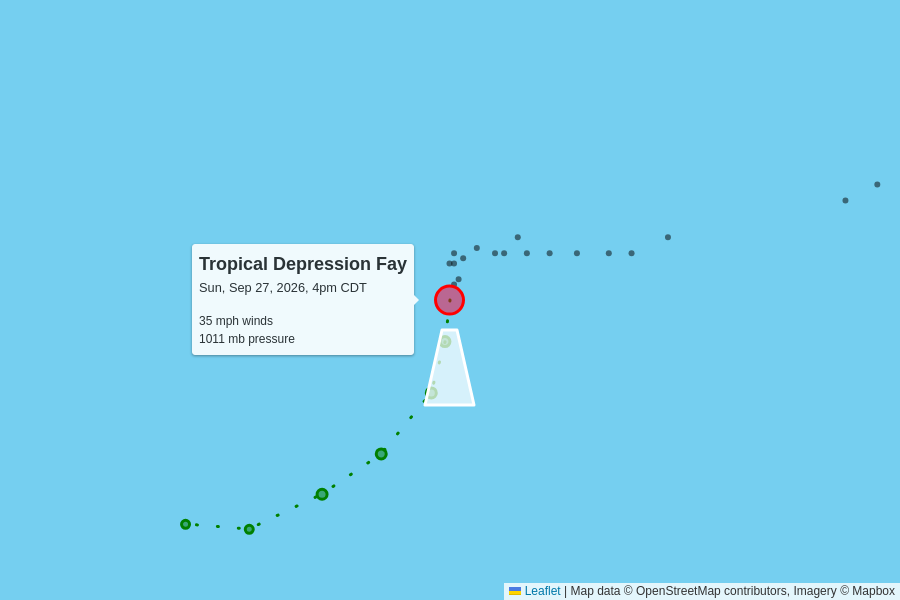
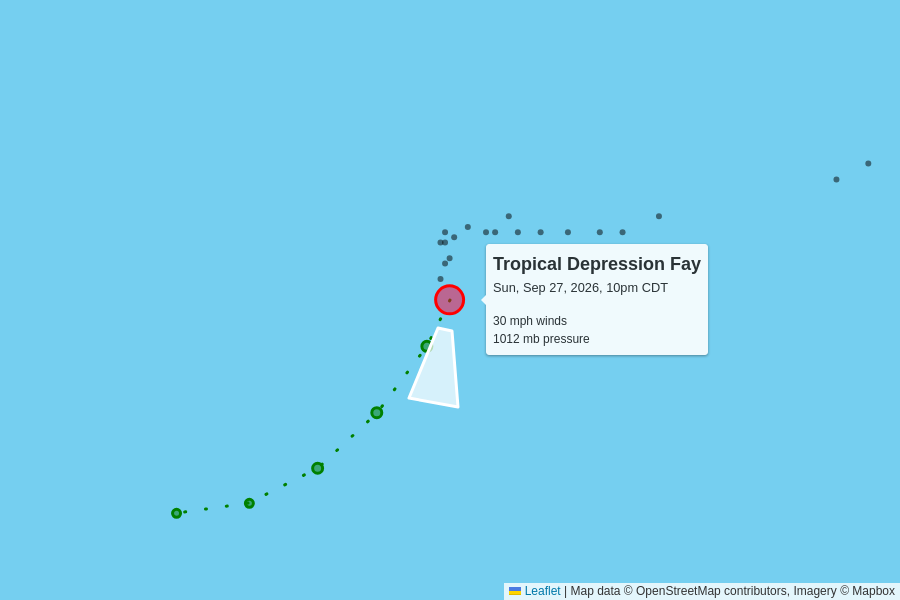
automatic update

diff --git a/docs/2026.html b/docs/2026.html
@@ -45,13 +45,13 @@
       <grid-container>
           <grid-row>
             <script type="text/json" id="storm_data_AL062026">
-              {"pressure":[{"timestamp":"2026-09-19T15:00:00.000Z","value":1009},{"timestamp":"2026-09-19T21:00:00.000Z","value":1007},{"timestamp":"2026-09-20T03:00:00.000Z","value":1007},{"timestamp":"2026-09-20T09:00:00.000Z","value":1004},{"timestamp":"2026-09-20T15:00:00.000Z","value":1004},{"timestamp":"2026-09-20T21:00:00.000Z","value":999},{"timestamp":"2026-09-21T03:00:00.000Z","value":995},{"timestamp":"2026-09-21T09:00:00.000Z","value":997},{"timestamp":"2026-09-21T15:00:00.000Z","value":1000},{"timestamp":"2026-09-21T21:00:00.000Z","value":1004},{"timestamp":"2026-09-22T03:00:00.000Z","value":1008},{"timestamp":"2026-09-22T09:00:00.000Z","value":1009},{"timestamp":"2026-09-22T15:00:00.000Z","value":1010},{"timestamp":"2026-09-22T21:00:00.000Z","value":1011},{"timestamp":"2026-09-23T21:00:00.000Z","value":1011},{"timestamp":"2026-09-24T03:00:00.000Z","value":1010},{"timestamp":"2026-09-24T09:00:00.000Z","value":1010},{"timestamp":"2026-09-24T15:00:00.000Z","value":1005},{"timestamp":"2026-09-24T21:00:00.000Z","value":1005},{"timestamp":"2026-09-25T03:00:00.000Z","value":1005},{"timestamp":"2026-09-25T09:00:00.000Z","value":1004},{"timestamp":"2026-09-25T15:00:00.000Z","value":1002},{"timestamp":"2026-09-25T21:00:00.000Z","value":1004},{"timestamp":"2026-09-26T03:00:00.000Z","value":1006},{"timestamp":"2026-09-26T09:00:00.000Z","value":1009},{"timestamp":"2026-09-26T15:00:00.000Z","value":1009},{"timestamp":"2026-09-26T21:00:00.000Z","value":1009},{"timestamp":"2026-09-27T03:00:00.000Z","value":1010},{"timestamp":"2026-09-27T09:00:00.000Z","value":1010},{"timestamp":"2026-09-27T15:00:00.000Z","value":1010},{"timestamp":"2026-09-27T21:00:00.000Z","value":1011}],"wind":[{"timestamp":"2026-09-19T15:00:00.000Z","value":35},{"timestamp":"2026-09-19T21:00:00.000Z","value":35},{"timestamp":"2026-09-20T03:00:00.000Z","value":35},{"timestamp":"2026-09-20T09:00:00.000Z","value":45},{"timestamp":"2026-09-20T15:00:00.000Z","value":60},{"timestamp":"2026-09-20T21:00:00.000Z","value":65},{"timestamp":"2026-09-21T03:00:00.000Z","value":70},{"timestamp":"2026-09-21T09:00:00.000Z","value":65},{"timestamp":"2026-09-21T15:00:00.000Z","value":50},{"timestamp":"2026-09-21T21:00:00.000Z","value":45},{"timestamp":"2026-09-22T03:00:00.000Z","value":40},{"timestamp":"2026-09-22T09:00:00.000Z","value":40},{"timestamp":"2026-09-22T15:00:00.000Z","value":35},{"timestamp":"2026-09-22T21:00:00.000Z","value":35},{"timestamp":"2026-09-23T21:00:00.000Z","value":35},{"timestamp":"2026-09-24T03:00:00.000Z","value":40},{"timestamp":"2026-09-24T09:00:00.000Z","value":40},{"timestamp":"2026-09-24T15:00:00.000Z","value":50},{"timestamp":"2026-09-24T21:00:00.000Z","value":50},{"timestamp":"2026-09-25T03:00:00.000Z","value":50},{"timestamp":"2026-09-25T09:00:00.000Z","value":50},{"timestamp":"2026-09-25T15:00:00.000Z","value":60},{"timestamp":"2026-09-25T21:00:00.000Z","value":50},{"timestamp":"2026-09-26T03:00:00.000Z","value":40},{"timestamp":"2026-09-26T09:00:00.000Z","value":35},{"timestamp":"2026-09-26T15:00:00.000Z","value":35},{"timestamp":"2026-09-26T21:00:00.000Z","value":35},{"timestamp":"2026-09-27T03:00:00.000Z","value":35},{"timestamp":"2026-09-27T09:00:00.000Z","value":35},{"timestamp":"2026-09-27T15:00:00.000Z","value":35},{"timestamp":"2026-09-27T21:00:00.000Z","value":35}]}
+              {"pressure":[{"timestamp":"2026-09-19T15:00:00.000Z","value":1009},{"timestamp":"2026-09-19T21:00:00.000Z","value":1007},{"timestamp":"2026-09-20T03:00:00.000Z","value":1007},{"timestamp":"2026-09-20T09:00:00.000Z","value":1004},{"timestamp":"2026-09-20T15:00:00.000Z","value":1004},{"timestamp":"2026-09-20T21:00:00.000Z","value":999},{"timestamp":"2026-09-21T03:00:00.000Z","value":995},{"timestamp":"2026-09-21T09:00:00.000Z","value":997},{"timestamp":"2026-09-21T15:00:00.000Z","value":1000},{"timestamp":"2026-09-21T21:00:00.000Z","value":1004},{"timestamp":"2026-09-22T03:00:00.000Z","value":1008},{"timestamp":"2026-09-22T09:00:00.000Z","value":1009},{"timestamp":"2026-09-22T15:00:00.000Z","value":1010},{"timestamp":"2026-09-22T21:00:00.000Z","value":1011},{"timestamp":"2026-09-23T21:00:00.000Z","value":1011},{"timestamp":"2026-09-24T03:00:00.000Z","value":1010},{"timestamp":"2026-09-24T09:00:00.000Z","value":1010},{"timestamp":"2026-09-24T15:00:00.000Z","value":1005},{"timestamp":"2026-09-24T21:00:00.000Z","value":1005},{"timestamp":"2026-09-25T03:00:00.000Z","value":1005},{"timestamp":"2026-09-25T09:00:00.000Z","value":1004},{"timestamp":"2026-09-25T15:00:00.000Z","value":1002},{"timestamp":"2026-09-25T21:00:00.000Z","value":1004},{"timestamp":"2026-09-26T03:00:00.000Z","value":1006},{"timestamp":"2026-09-26T09:00:00.000Z","value":1009},{"timestamp":"2026-09-26T15:00:00.000Z","value":1009},{"timestamp":"2026-09-26T21:00:00.000Z","value":1009},{"timestamp":"2026-09-27T03:00:00.000Z","value":1010},{"timestamp":"2026-09-27T09:00:00.000Z","value":1010},{"timestamp":"2026-09-27T15:00:00.000Z","value":1010},{"timestamp":"2026-09-27T21:00:00.000Z","value":1011},{"timestamp":"2026-09-28T03:00:00.000Z","value":1012}],"wind":[{"timestamp":"2026-09-19T15:00:00.000Z","value":35},{"timestamp":"2026-09-19T21:00:00.000Z","value":35},{"timestamp":"2026-09-20T03:00:00.000Z","value":35},{"timestamp":"2026-09-20T09:00:00.000Z","value":45},{"timestamp":"2026-09-20T15:00:00.000Z","value":60},{"timestamp":"2026-09-20T21:00:00.000Z","value":65},{"timestamp":"2026-09-21T03:00:00.000Z","value":70},{"timestamp":"2026-09-21T09:00:00.000Z","value":65},{"timestamp":"2026-09-21T15:00:00.000Z","value":50},{"timestamp":"2026-09-21T21:00:00.000Z","value":45},{"timestamp":"2026-09-22T03:00:00.000Z","value":40},{"timestamp":"2026-09-22T09:00:00.000Z","value":40},{"timestamp":"2026-09-22T15:00:00.000Z","value":35},{"timestamp":"2026-09-22T21:00:00.000Z","value":35},{"timestamp":"2026-09-23T21:00:00.000Z","value":35},{"timestamp":"2026-09-24T03:00:00.000Z","value":40},{"timestamp":"2026-09-24T09:00:00.000Z","value":40},{"timestamp":"2026-09-24T15:00:00.000Z","value":50},{"timestamp":"2026-09-24T21:00:00.000Z","value":50},{"timestamp":"2026-09-25T03:00:00.000Z","value":50},{"timestamp":"2026-09-25T09:00:00.000Z","value":50},{"timestamp":"2026-09-25T15:00:00.000Z","value":60},{"timestamp":"2026-09-25T21:00:00.000Z","value":50},{"timestamp":"2026-09-26T03:00:00.000Z","value":40},{"timestamp":"2026-09-26T09:00:00.000Z","value":35},{"timestamp":"2026-09-26T15:00:00.000Z","value":35},{"timestamp":"2026-09-26T21:00:00.000Z","value":35},{"timestamp":"2026-09-27T03:00:00.000Z","value":35},{"timestamp":"2026-09-27T09:00:00.000Z","value":35},{"timestamp":"2026-09-27T15:00:00.000Z","value":35},{"timestamp":"2026-09-27T21:00:00.000Z","value":35},{"timestamp":"2026-09-28T03:00:00.000Z","value":30}]}
             </script>              <grid-container class="storm">
                 <grid-row onClick="toggle('storm_AL062026')">
                   <h2>
                     Tropical Depression Fay
                     <div class="updated">
-                      last updated <time datetime="2026-09-27T21:00:00.000Z">2026-09-27T21:00:00.000Z</time>
+                      last updated <time datetime="2026-09-28T03:00:00.000Z">2026-09-28T03:00:00.000Z</time>
                     </div>
                   </h2>
                 </grid-row>
@@ -67,19 +67,19 @@
                       </tr>
                       <tr>
                         <td>
-                          35 mph
+                          30 mph
                           <br>
-                          0 mph since last update
+                          -5 mph since last update
                         </td>
                         <td>
-                          1011 mb
+                          1012 mb
                           <br>
                           +1 mb since last update
                         </td>
                         <td>
-                          5 mph to the south
+                          6 mph to the south
                           <br>
-                          <span style="display: inline-block; font-size: 1.5em; transform: rotate(180deg);">↑</span>
+                          <span style="display: inline-block; font-size: 1.5em; transform: rotate(190deg);">↑</span>
                         </td>
                         <td>
                           <a href="https://raw.githubusercontent.com/mgwalker/atlantic-hurricanes/main/data/csv/AL062026.csv">AL062026.csv</a>

diff --git a/docs/index.html b/docs/index.html
@@ -45,13 +45,13 @@
       <grid-container>
           <grid-row>
             <script type="text/json" id="storm_data_AL062026">
-              {"pressure":[{"timestamp":"2026-09-19T15:00:00.000Z","value":1009},{"timestamp":"2026-09-19T21:00:00.000Z","value":1007},{"timestamp":"2026-09-20T03:00:00.000Z","value":1007},{"timestamp":"2026-09-20T09:00:00.000Z","value":1004},{"timestamp":"2026-09-20T15:00:00.000Z","value":1004},{"timestamp":"2026-09-20T21:00:00.000Z","value":999},{"timestamp":"2026-09-21T03:00:00.000Z","value":995},{"timestamp":"2026-09-21T09:00:00.000Z","value":997},{"timestamp":"2026-09-21T15:00:00.000Z","value":1000},{"timestamp":"2026-09-21T21:00:00.000Z","value":1004},{"timestamp":"2026-09-22T03:00:00.000Z","value":1008},{"timestamp":"2026-09-22T09:00:00.000Z","value":1009},{"timestamp":"2026-09-22T15:00:00.000Z","value":1010},{"timestamp":"2026-09-22T21:00:00.000Z","value":1011},{"timestamp":"2026-09-23T21:00:00.000Z","value":1011},{"timestamp":"2026-09-24T03:00:00.000Z","value":1010},{"timestamp":"2026-09-24T09:00:00.000Z","value":1010},{"timestamp":"2026-09-24T15:00:00.000Z","value":1005},{"timestamp":"2026-09-24T21:00:00.000Z","value":1005},{"timestamp":"2026-09-25T03:00:00.000Z","value":1005},{"timestamp":"2026-09-25T09:00:00.000Z","value":1004},{"timestamp":"2026-09-25T15:00:00.000Z","value":1002},{"timestamp":"2026-09-25T21:00:00.000Z","value":1004},{"timestamp":"2026-09-26T03:00:00.000Z","value":1006},{"timestamp":"2026-09-26T09:00:00.000Z","value":1009},{"timestamp":"2026-09-26T15:00:00.000Z","value":1009},{"timestamp":"2026-09-26T21:00:00.000Z","value":1009},{"timestamp":"2026-09-27T03:00:00.000Z","value":1010},{"timestamp":"2026-09-27T09:00:00.000Z","value":1010},{"timestamp":"2026-09-27T15:00:00.000Z","value":1010},{"timestamp":"2026-09-27T21:00:00.000Z","value":1011}],"wind":[{"timestamp":"2026-09-19T15:00:00.000Z","value":35},{"timestamp":"2026-09-19T21:00:00.000Z","value":35},{"timestamp":"2026-09-20T03:00:00.000Z","value":35},{"timestamp":"2026-09-20T09:00:00.000Z","value":45},{"timestamp":"2026-09-20T15:00:00.000Z","value":60},{"timestamp":"2026-09-20T21:00:00.000Z","value":65},{"timestamp":"2026-09-21T03:00:00.000Z","value":70},{"timestamp":"2026-09-21T09:00:00.000Z","value":65},{"timestamp":"2026-09-21T15:00:00.000Z","value":50},{"timestamp":"2026-09-21T21:00:00.000Z","value":45},{"timestamp":"2026-09-22T03:00:00.000Z","value":40},{"timestamp":"2026-09-22T09:00:00.000Z","value":40},{"timestamp":"2026-09-22T15:00:00.000Z","value":35},{"timestamp":"2026-09-22T21:00:00.000Z","value":35},{"timestamp":"2026-09-23T21:00:00.000Z","value":35},{"timestamp":"2026-09-24T03:00:00.000Z","value":40},{"timestamp":"2026-09-24T09:00:00.000Z","value":40},{"timestamp":"2026-09-24T15:00:00.000Z","value":50},{"timestamp":"2026-09-24T21:00:00.000Z","value":50},{"timestamp":"2026-09-25T03:00:00.000Z","value":50},{"timestamp":"2026-09-25T09:00:00.000Z","value":50},{"timestamp":"2026-09-25T15:00:00.000Z","value":60},{"timestamp":"2026-09-25T21:00:00.000Z","value":50},{"timestamp":"2026-09-26T03:00:00.000Z","value":40},{"timestamp":"2026-09-26T09:00:00.000Z","value":35},{"timestamp":"2026-09-26T15:00:00.000Z","value":35},{"timestamp":"2026-09-26T21:00:00.000Z","value":35},{"timestamp":"2026-09-27T03:00:00.000Z","value":35},{"timestamp":"2026-09-27T09:00:00.000Z","value":35},{"timestamp":"2026-09-27T15:00:00.000Z","value":35},{"timestamp":"2026-09-27T21:00:00.000Z","value":35}]}
+              {"pressure":[{"timestamp":"2026-09-19T15:00:00.000Z","value":1009},{"timestamp":"2026-09-19T21:00:00.000Z","value":1007},{"timestamp":"2026-09-20T03:00:00.000Z","value":1007},{"timestamp":"2026-09-20T09:00:00.000Z","value":1004},{"timestamp":"2026-09-20T15:00:00.000Z","value":1004},{"timestamp":"2026-09-20T21:00:00.000Z","value":999},{"timestamp":"2026-09-21T03:00:00.000Z","value":995},{"timestamp":"2026-09-21T09:00:00.000Z","value":997},{"timestamp":"2026-09-21T15:00:00.000Z","value":1000},{"timestamp":"2026-09-21T21:00:00.000Z","value":1004},{"timestamp":"2026-09-22T03:00:00.000Z","value":1008},{"timestamp":"2026-09-22T09:00:00.000Z","value":1009},{"timestamp":"2026-09-22T15:00:00.000Z","value":1010},{"timestamp":"2026-09-22T21:00:00.000Z","value":1011},{"timestamp":"2026-09-23T21:00:00.000Z","value":1011},{"timestamp":"2026-09-24T03:00:00.000Z","value":1010},{"timestamp":"2026-09-24T09:00:00.000Z","value":1010},{"timestamp":"2026-09-24T15:00:00.000Z","value":1005},{"timestamp":"2026-09-24T21:00:00.000Z","value":1005},{"timestamp":"2026-09-25T03:00:00.000Z","value":1005},{"timestamp":"2026-09-25T09:00:00.000Z","value":1004},{"timestamp":"2026-09-25T15:00:00.000Z","value":1002},{"timestamp":"2026-09-25T21:00:00.000Z","value":1004},{"timestamp":"2026-09-26T03:00:00.000Z","value":1006},{"timestamp":"2026-09-26T09:00:00.000Z","value":1009},{"timestamp":"2026-09-26T15:00:00.000Z","value":1009},{"timestamp":"2026-09-26T21:00:00.000Z","value":1009},{"timestamp":"2026-09-27T03:00:00.000Z","value":1010},{"timestamp":"2026-09-27T09:00:00.000Z","value":1010},{"timestamp":"2026-09-27T15:00:00.000Z","value":1010},{"timestamp":"2026-09-27T21:00:00.000Z","value":1011},{"timestamp":"2026-09-28T03:00:00.000Z","value":1012}],"wind":[{"timestamp":"2026-09-19T15:00:00.000Z","value":35},{"timestamp":"2026-09-19T21:00:00.000Z","value":35},{"timestamp":"2026-09-20T03:00:00.000Z","value":35},{"timestamp":"2026-09-20T09:00:00.000Z","value":45},{"timestamp":"2026-09-20T15:00:00.000Z","value":60},{"timestamp":"2026-09-20T21:00:00.000Z","value":65},{"timestamp":"2026-09-21T03:00:00.000Z","value":70},{"timestamp":"2026-09-21T09:00:00.000Z","value":65},{"timestamp":"2026-09-21T15:00:00.000Z","value":50},{"timestamp":"2026-09-21T21:00:00.000Z","value":45},{"timestamp":"2026-09-22T03:00:00.000Z","value":40},{"timestamp":"2026-09-22T09:00:00.000Z","value":40},{"timestamp":"2026-09-22T15:00:00.000Z","value":35},{"timestamp":"2026-09-22T21:00:00.000Z","value":35},{"timestamp":"2026-09-23T21:00:00.000Z","value":35},{"timestamp":"2026-09-24T03:00:00.000Z","value":40},{"timestamp":"2026-09-24T09:00:00.000Z","value":40},{"timestamp":"2026-09-24T15:00:00.000Z","value":50},{"timestamp":"2026-09-24T21:00:00.000Z","value":50},{"timestamp":"2026-09-25T03:00:00.000Z","value":50},{"timestamp":"2026-09-25T09:00:00.000Z","value":50},{"timestamp":"2026-09-25T15:00:00.000Z","value":60},{"timestamp":"2026-09-25T21:00:00.000Z","value":50},{"timestamp":"2026-09-26T03:00:00.000Z","value":40},{"timestamp":"2026-09-26T09:00:00.000Z","value":35},{"timestamp":"2026-09-26T15:00:00.000Z","value":35},{"timestamp":"2026-09-26T21:00:00.000Z","value":35},{"timestamp":"2026-09-27T03:00:00.000Z","value":35},{"timestamp":"2026-09-27T09:00:00.000Z","value":35},{"timestamp":"2026-09-27T15:00:00.000Z","value":35},{"timestamp":"2026-09-27T21:00:00.000Z","value":35},{"timestamp":"2026-09-28T03:00:00.000Z","value":30}]}
             </script>              <grid-container class="storm">
                 <grid-row onClick="toggle('storm_AL062026')">
                   <h2>
                     Tropical Depression Fay
                     <div class="updated">
-                      last updated <time datetime="2026-09-27T21:00:00.000Z">2026-09-27T21:00:00.000Z</time>
+                      last updated <time datetime="2026-09-28T03:00:00.000Z">2026-09-28T03:00:00.000Z</time>
                     </div>
                   </h2>
                 </grid-row>
@@ -67,19 +67,19 @@
                       </tr>
                       <tr>
                         <td>
-                          35 mph
+                          30 mph
                           <br>
-                          0 mph since last update
+                          -5 mph since last update
                         </td>
                         <td>
-                          1011 mb
+                          1012 mb
                           <br>
                           +1 mb since last update
                         </td>
                         <td>
-                          5 mph to the south
+                          6 mph to the south
                           <br>
-                          <span style="display: inline-block; font-size: 1.5em; transform: rotate(180deg);">↑</span>
+                          <span style="display: inline-block; font-size: 1.5em; transform: rotate(190deg);">↑</span>
                         </td>
                         <td>
                           <a href="https://raw.githubusercontent.com/mgwalker/atlantic-hurricanes/main/data/csv/AL062026.csv">AL062026.csv</a>
